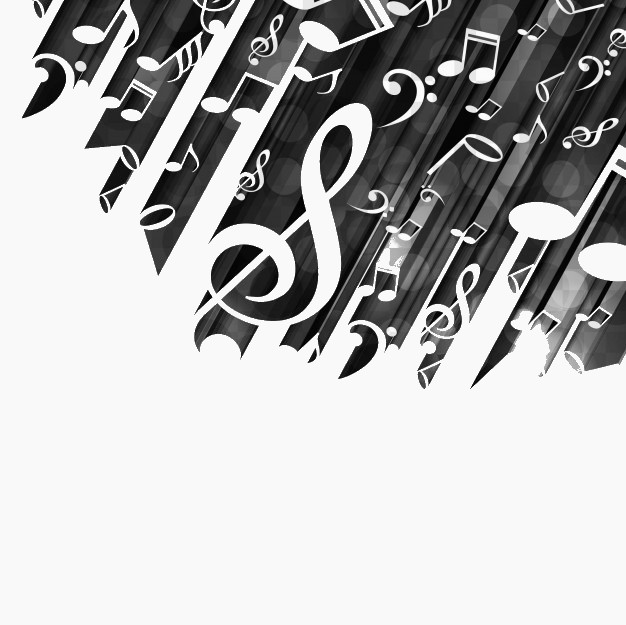
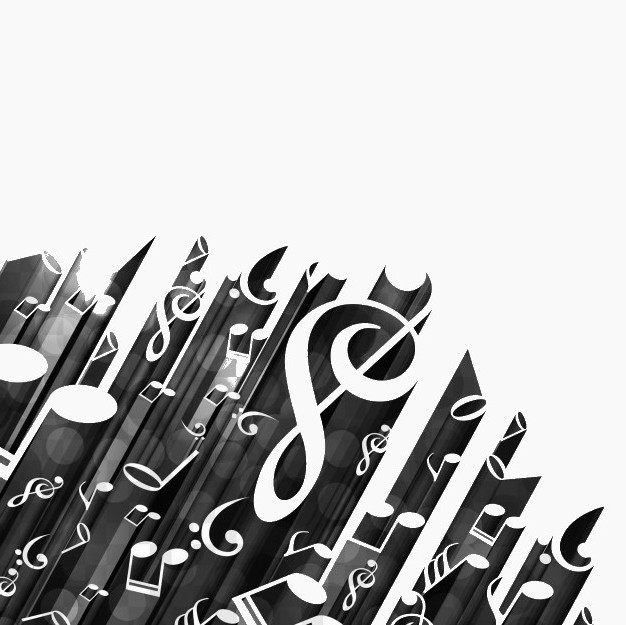
start playlist

diff --git a/index.html b/index.html
@@ -9,60 +9,29 @@
 <body>
 
     <div id="container">
-
-        <div id="top-img"></div>
         <h1>Ma playlist</h1>
-        <table id="playlist">
-            <tr>
-                <td>
-                    <div class="video">
 
-                        <iframe width="560" height="315" src="https://www.youtube.com/embed/vYV-XJdzupY" frameborder="0" allow="accelerometer; autoplay; clipboard-write; encrypted-media; gyroscope; picture-in-picture" allowfullscreen></iframe>
-                    </div>
-                </td>
-            </tr>
+        <div class="video">
 
-            <tr>
-                <td>
-                    <h2>Ma liste</h2>
-                </td>
-            </tr>
+            <iframe width="560" height="315" src="https://www.youtube.com/embed/vYV-XJdzupY" frameborder="0" allow="accelerometer; autoplay; clipboard-write; encrypted-media; gyroscope; picture-in-picture" allowfullscreen></iframe>
+        </div>
 
-            <tr>
-                <td class="singer">
-                    <h3>Auteur</h3>
-                </td>
-                <td class="songName">
-                    <h3>Titre chanson</h3>
+        <div class="goAction">
+            <label for="sourceUrl">
+                <input id="sourceUrl" type="text" placeholder="Enter audio url" />
+            </label>
+            <button type="button" id="addSong"><i class="fas fa-plus"></i>Ajouter une chanson</button>
+            <button type="button" id="deleteSong"><i class="fas fa-trash-alt"></i>Supprimer une chanson</button>
+            <button type="button" id="deleteAll"><i class="fas fa-trash-alt"></i>Supprimer tout</button>
+        </div>
 
-                </td>
-                <td class="time">
-                    <h3>Temps</h3>
-                </td>
-            </tr>
-            <tr>
-                <td class="singer">Stereopony</td>
-                <td class="songName">Hitohira No Hanabira</td>
-                <td class="time">3.43 min</td>
-            </tr>
-
-            <tr>
-
-                <td>
-                    <div class="add-list">
-                        <label for="sourceUrl">
-                            <input id="sourceUrl" type="text" placeholder="Enter audio url" />
-                        </label>
-                        <button type="button" id="add"><i class="fas fa-plus"></i>Ajouter une chanson</button>
-                    </div>
-                </td>
-                <td><button type="button" id="delete"><i class="fas fa-trash-alt"></i>Supprimer</button></td>
-            </tr>
-
-        </table>
+        <div id="list">
+            Ma liste d'attente sera ici, ci tout va bien!
+        </div>
 
     </div>
 
+    <script src="https://ajax.googleapis.com/ajax/libs/jquery/3.5.1/jquery.min.js"></script>
     <script src="app.js"></script>
 </body>
 </html>

diff --git a/app.js b/app.js
@@ -1,6 +1,9 @@
-let playlist = document.getElementById('playlist');
-let add = document.getElementById("add");
-let table = document.getElementById("playlist");
+let newList = document.getElementById('list');
+// Add Buttons:
+let addMusic = document.getElementById('addSong');
+// Del Buttons:
+let delPlaylist = document.getElementById('deleteALL');
+let delMusic = document.getElementById('deleteSong');
 
 //add song
 function addList() {
@@ -8,10 +11,10 @@ function addList() {
     sourceUrl.split(",").forEach((file) => {
        let  fileUrl = file.trim();
         if (fileUrl !== "" && playlist.indexOf(fileUrl) === -1) {
-            table.document.createElement("tr");
-            add.setAttribute('onclick','removeList(this)');
-            add.innerHTML = '&times;';
-            playlist.push(fileUrl);
+            newList.document.createElement("div");
+
+            addMusic.setAttribute('onclick','removeList(this)');
+          addMusic.push(fileUrl);
         }
     });
     document.getElementById('sourceUrl').value = '';
@@ -19,10 +22,18 @@ function addList() {
 
 //delete song
 function removeList(item) {
-    let index = playlist.indexOf(item.parentElement.firstChild.innerText);
+    let index = newPlaylist.indexOf(item.parentElement.firstChild.innerText);
     if (index !== -1){
-        playlist.splice(index,1);
-        item.parentElement.remove();
+       newPlaylist.splice(index,1);
+       delMusic.addEventListener("click", function () {
+           this.remove();
+       })
+    }
+    //delete all
+    else {
+        delPlaylist.addEventListener("click", function (e) {
+            newPlaylist.remove();
+        })
     }
 }
 let video = document.querySelector(".video");
@@ -38,3 +49,4 @@ input.addEventListener("keyup", function(event) {
         addList();
     }
 });
+

diff --git a/style.css b/style.css
@@ -8,8 +8,10 @@
 
 body {
     box-sizing: border-box;
-    background: url(fond.jpg) top center;
+    background: url(fond.jpg) center ;
     background-size: cover;
+    width: 100%;
+    height: 40%;
 }
 
 html {
@@ -24,17 +26,15 @@ h1 {
 }
 
 #container {
-    height: 100vw ;
     width: 100%;
 }
 
-#playlist {
+.goAction {
     width: 60%;
-    height: 35vw;
+    height: 55px;
     background-color: #9d9d9d;
-    margin-top: 54px;
+    margin-top: 50px;
     display: flex;
-    flex-flow: row nowrap;
     justify-content: space-between;
     align-items: center;
     border: 5px inset black;
@@ -42,10 +42,11 @@ h1 {
 
 button {
     padding: 6px;
-    margin-top: 85px;
     background-color: white;
     color:black;
     border: 3px inset black;
+    flex-direction: column;
+    align-items: flex-end;
 }
 
 i {
@@ -54,11 +55,14 @@ i {
 
 .video {
     margin: 25px;
-    justify-content: center;
+    float:left;
 }
 
-table {
-    color : white;
-    flex-direction: column;
-    align-items: start;
+#list {
+    background-color: lightcoral;
+    width: 61%;
+    height: 100px;
+    margin-top: 70px;
+    display: inline-flex;
+    font-size: 20px;
 }
